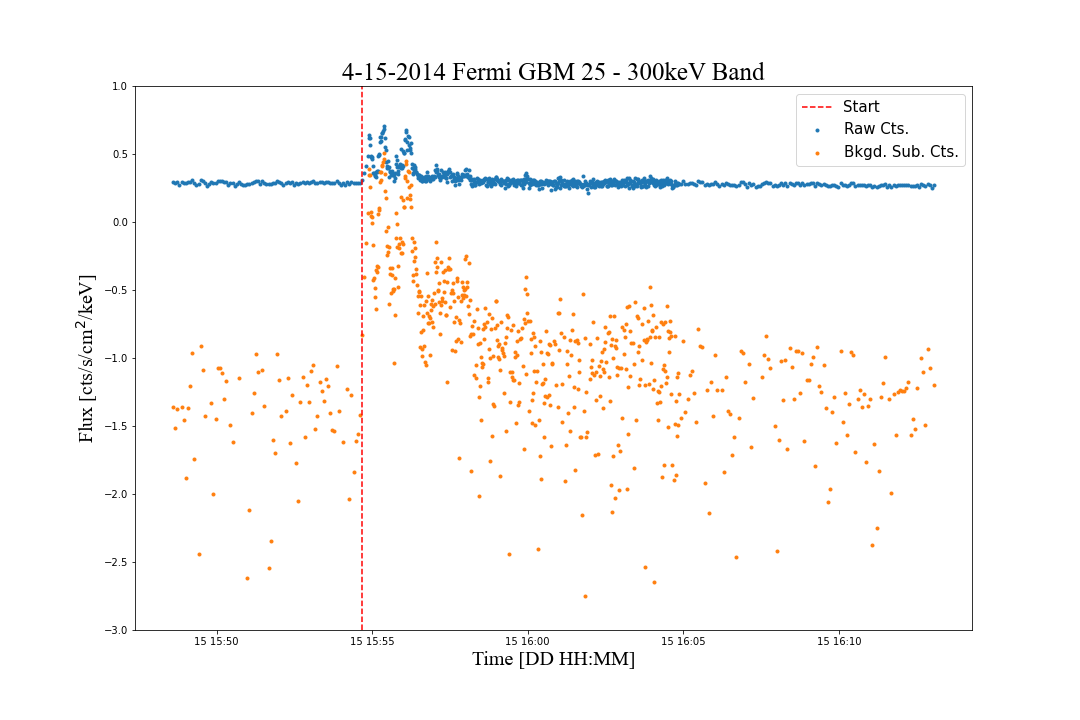
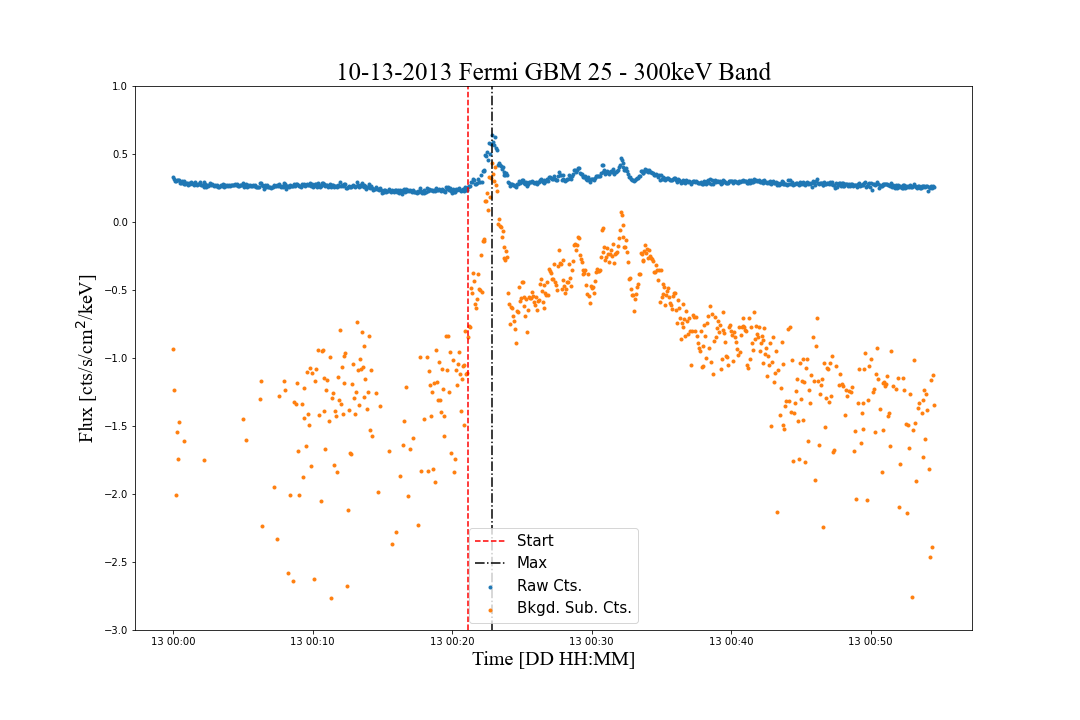
correction to 13oct fermi

diff --git a/fermi_13_october_2013.py b/fermi_13_october_2013.py
@@ -56,8 +56,7 @@ timesadj1 = times + err1
 
 curr = datetime.fromtimestamp(min(timesadj1))
 corr = datetime(yearint,moint,dayint,0,0,0)
-print(curr)
-print(corr)
+
 err2 = (corr-curr).seconds
 totsec = (b-a).total_seconds() + err2
 
@@ -77,17 +76,18 @@ for i in range(low, high):
     if cspec_hxr_sum[i] < 0.1:
         flag = 0
     if flag > 3:
-        maxind = i - 3
+        startind = i - 3
         break
     
+maxind = np.where(raw_hxr_sum[low:high] == max(raw_hxr_sum[low:high]))
 fig,ax = plt.subplots(figsize=(15,10))
 
 ax.scatter(strtimes[low:high],np.log10(raw_hxr_sum[low:high]),marker='.',
            label='Raw Cts.')
 ax.scatter(strtimes[low:high],np.log10(cspec_hxr_sum[low:high]),marker='.',
            label='Bkgd. Sub. Cts.')
-ax.axvline(strtimes[maxind],linestyle='--',color='red',label='Start')
-
+ax.axvline(strtimes[startind],linestyle='--',color='red',label='Start')
+ax.axvline(strtimes[maxind[0][0]+low],linestyle='-.',color='black',label='Max')
 ax.grid
 ax.set_xlabel('Time [DD HH:MM]',font='Times New Roman',fontsize=20)
 ax.set_ylabel('Flux [cts/s/cm$^2$/keV]',font='Times New Roman',fontsize=20)
@@ -96,6 +96,6 @@ ax.set_title(str(moint)+'-'+str(dayint)+'-'+str(yearint)+' Fermi GBM 25 - 300'\
 ax.set_ylim(np.log10(ylo),np.log10(yhi))
 ax.legend(fontsize=15)
 
-#fname = '15_april_2014_Fermi.png'
+fname = '15_april_2014_Fermi.png'
 
-#plt.savefig(fname)
+plt.savefig(fname)
